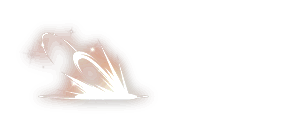
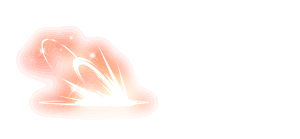
fix: restore nightmare active skill presentation

Changed region(s): [[0.06, 0.2014, 0.54, 0.8345]]

diff --git a/client/assets/scripts/features/battle/utils/BattleAttackUtils.ts b/client/assets/scripts/features/battle/utils/BattleAttackUtils.ts
@@ -28,8 +28,20 @@ export class BattleAttackUtils {
     /** 纯配置工具不保存播放状态。 */
     private constructor() {}
 
-    /** 旧BattleInfoFactory优先展开G_BATTLE_ACTIONS；这里只恢复已逐项核对的奈奈子，内部索引不写回战报。 */
+    /** 旧BattleInfoFactory优先展开G_BATTLE_ACTIONS；这里只恢复已逐项核对的独眼梦魇主动与奈奈子，内部索引不写回战报。 */
     public static legacyActions<T extends { idx: number; type: number; ani_base: string; file: string; sound: string; delay: number; dimly: number }>(row: T): readonly T[] {
+        // 独眼梦魇一级主动：近身骨骼与第20帧的施法者特效并行，音效仅由近身动作播放。
+        if (row.idx === 1011101) {
+            return [
+                { ...row, idx: row.idx * 10, type: 2, delay: 0, dimly: 0,
+                    ani_base: JSON.stringify({ move_time: 0.1, move_back: 1 }),
+                    file: "[]", sound: JSON.stringify(["skill-101010011"]) },
+                { ...row, idx: row.idx * 10 + 1, type: 6, delay: 20, dimly: 1,
+                    ani_base: JSON.stringify({ format: "skill-101010011/%d.png", anchor_x: 0.5,
+                        duration: 0.025, scale_x: 1.7, scale_y: 1.7 }),
+                    file: JSON.stringify(["skill-101010011"]), sound: "[]" }
+            ];
+        }
         const normal = row.idx === 2230100;
         const first = row.idx >= 2231101 && row.idx <= 2231103;
         const second = row.idx >= 2233101 && row.idx <= 2233103;
@@ -75,7 +87,7 @@ export class BattleAttackUtils {
         }
         let effect: BattleAttackPlan["effect"] = null;
         if (files.length) {
-            const counts: Record<string, number> = { "skill-101040050": 7, "skill-101020021": 11, "skill-102050230": 8, "skill-102050231": 17, "skill-102050233": 22, "skill-102050233_1": 22 };
+            const counts: Record<string, number> = { "skill-101010011": 9, "skill-101040050": 7, "skill-101020021": 11, "skill-102050230": 8, "skill-102050231": 17, "skill-102050233": 22, "skill-102050233_1": 22 };
             const file = files[0];
             if (files.length !== 1 || typeof file !== "string" || !counts[file]
                 || values.format !== file + "/%d.png" || row.type === 2) {

diff --git a/client/assets/scripts/features/battle/utils/SkillAuditUtils.ts b/client/assets/scripts/features/battle/utils/SkillAuditUtils.ts
@@ -21,12 +21,12 @@ export class SkillAuditUtils {
 
     /** 精确技能/等级对应的已有只读场景；未登记不是对后端全部能力的推断。 */
     private static readonly demos: Readonly<Record<string, readonly [string | null, string, string]>> = {
-        "101010010:0": ["chapter-1-1-1-replay.pb", "已验收", "独眼梦魇完整关卡演示，包含普攻。"],
-        "101010011:1": ["chapter-1-1-1-replay.pb", "已验收", "第一关真实主动与持续效果。"],
+        "101010010:0": ["chapter-1-1-1-replay.pb", "部分接入", "普攻战报可播放；旧覆盖表ani_ba4e字段疑点待核对，独立特效未恢复。"],
+        "101010011:1": ["chapter-1-1-1-replay.pb", "可演示", "一级主动已复验斩击特效、暗屏和退出；正式服完整时序对照仍待验收。"],
         "101040040:0": ["chapter-1-1-3-control-replay.pb", "已验收", "第三关敌方赛西莉普攻与多单位场景。"],
         "101040041:1": ["chapter-1-1-3-control-replay.pb", "已验收", "第三关赛西莉真实施法与眩晕。"],
         "105050050:0": ["chapter-1-1-2-replay.pb", "已验收", "第二关黑暗切割者普攻。"],
-        "105050051:1": ["chapter-1-1-2-replay.pb", "已验收", "第二关真实施法；本等级流血配置概率为零。"],
+        "105050051:1": ["chapter-1-1-2-replay.pb", "部分接入", "真实施法战报可播放；旧type9等覆盖特效尚未恢复，本等级流血概率为零。"],
         "102050230:0": ["independent-nanako-replay.pb", "可演示", "普攻已补旧表现覆盖；正式服完整特效对照待验收。"],
         "102050231:1": ["independent-nanako-star-5-replay.pb", "可演示", "五星真实一级技能，降护甲后伤害；暴击追加概率为零。"],
         "102050231:2": ["independent-nanako-star-6-replay.pb", "可演示", "六星真实二级技能，降护甲后伤害；暴击追加概率为零。"],

diff --git a/tools/check_battle_atlas.py b/tools/check_battle_atlas.py
@@ -26,7 +26,7 @@ def main():
         assert image.getpixel((2, 2)) == (0, 0, 0, 0)
     total = 0
     for name in ['skill-102050230', 'skill-102050231', 'skill-102050233', 'skill-102050233_1',
-                 'skill-101040050', 'skill-101020021', 'hero-skill']:
+                 'skill-101040050', 'skill-101020021', 'hero-skill', 'skill-101010011']:
         source = atlas.load_ccz_pvr(args.legacy / (name + '.pvr.ccz'))
         data = plistlib.loads((args.legacy / (name + '.plist')).read_bytes())
         for key, frame in data['frames'].items():
